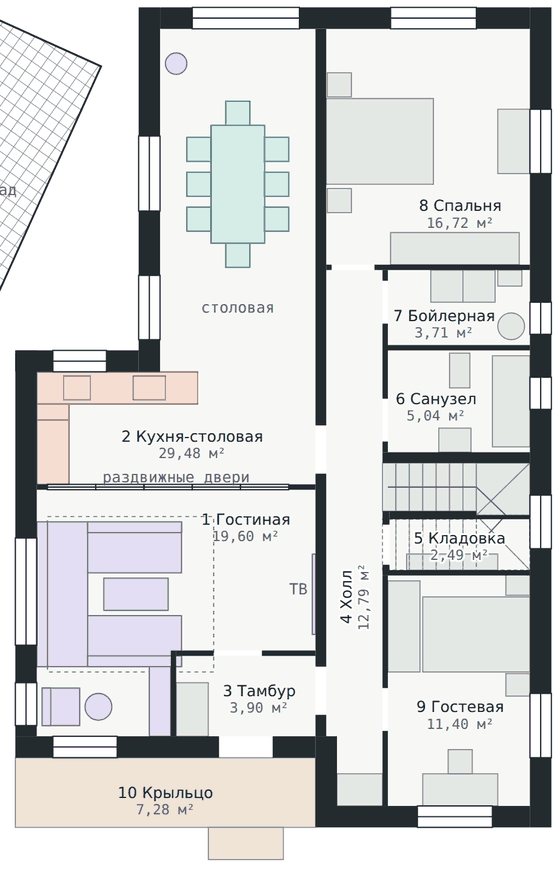
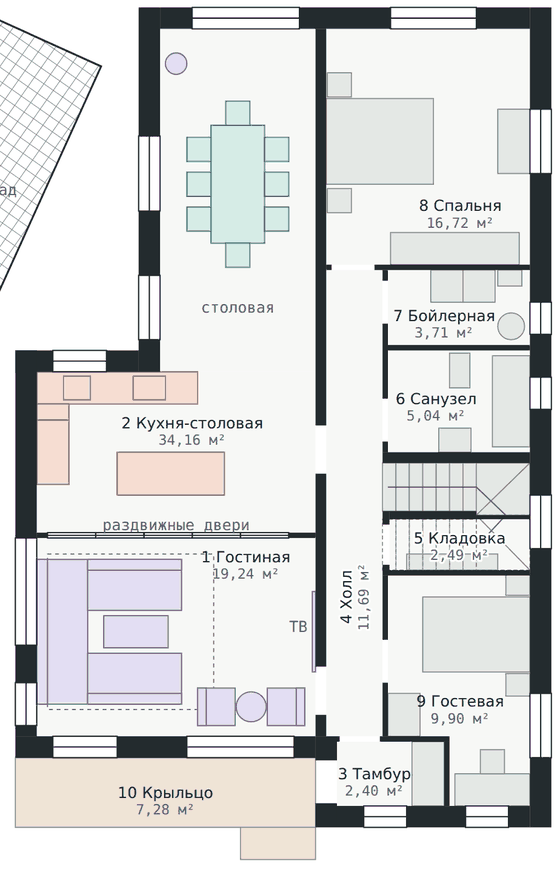
Variant 5: move the vestibule to the right half to enlarge the kitchen
Claude-Session: https://claude.ai/code/session_01Nq58rekvZSDXxWiDhZZmV7

diff --git a/dom/v5-dvuskatnaya.html b/dom/v5-dvuskatnaya.html
@@ -82,7 +82,7 @@ tr.out td{color:var(--muted)}
 <svg width="0" height="0" style="position:absolute" aria-hidden="true" focusable="false"><defs><pattern id="hatch" width="9" height="9" patternUnits="userSpaceOnUse" patternTransform="rotate(35)"><path d="M0 0 L0 9 M0 0 L9 0" stroke="var(--f-stroke)" stroke-width="1"/></pattern></defs></svg>
 <header>
 <h1>Дом · вариант 5, гостиная и кухня у входа, двускатная крыша</h1>
-<div class="specs"><span>общая <b>≈ 210,8 м²</b></span><span>1 этаж <b>105,1 м²</b></span><span>2 этаж <b>105,7 м²</b></span><span>сзади <b>7,7 × 6,4 м</b></span><span>спереди <b>10,0 × 8,9 м</b></span><span>склад <b>5,5 × 5,6 м</b></span><span>балкон <b>7,3 м²</b></span><span>длина <b>15,3 м</b></span><span>фундамент <b>плита 250 мм с рёбрами</b></span><span>крыша <b>двускатная, 30°</b>, конёк <b>≈ 8,2 м</b> от земли</span><span>2 этаж у наружных стен <b>1,5–2,3 м</b></span></div>
+<div class="specs"><span>общая <b>≈ 211,0 м²</b></span><span>1 этаж <b>105,4 м²</b></span><span>2 этаж <b>105,7 м²</b></span><span>сзади <b>7,7 × 6,4 м</b></span><span>спереди <b>10,0 × 8,9 м</b></span><span>склад <b>5,5 × 5,6 м</b></span><span>балкон <b>7,3 м²</b></span><span>длина <b>15,3 м</b></span><span>фундамент <b>плита 250 мм с рёбрами</b></span><span>крыша <b>двускатная, 30°</b>, конёк <b>≈ 8,2 м</b> от земли</span><span>2 этаж у наружных стен <b>1,5–2,3 м</b></span></div>
 </header>
 <div class="row">
 <div class="bar big" id="floors"><span class="lbl">Показать</span>
@@ -112,7 +112,7 @@ tr.out td{color:var(--muted)}
 <svg id="fplan" viewBox="0 -70 680 960" width="100%" role="img" style="min-width:540px"><title>План фундамента</title><desc>Монолитная плита 250 мм по контуру дома: сзади 7,7 м, спереди 10,0 м, длина 15,3 м. Рёбра под плитой показаны пунктиром, отдельные плиты крыльца и площадки у двери в сад, привязка к границе участков и переднему забору. Размеры в мм.</desc></svg>
 <svg id="fsec" viewBox="0 0 680 300" width="100%" role="img" style="min-width:540px;margin-top:6px"><title>Край плиты в разрезе</title><desc>Разрез по наружной стене: стена 400, плита 250, ребро 400 × 400, ЭППС 100, подушка 300, утеплённая отмостка, отметки от чистого пола.</desc></svg>
 </div>
-<svg id="plan1" viewBox="0 0 680 760" width="100%" role="img" style="min-width:540px" hidden><title>План первого этажа</title><desc>Первый этаж, вариант 5: спереди дом шириной 10 м, вход слева с крыльцом. Слева от фасада назад тамбур, гостиная с П-образным диваном, за стеклянными дверями кухня и в узкой задней части столовая с выходом в сад. Справа за несущей стеной холл, лестница у правой стены с кладовкой под ней, санузел, бойлерная, спальня сзади и гостевая спереди. Размеры в мм.</desc></svg>
+<svg id="plan1" viewBox="0 0 680 760" width="100%" role="img" style="min-width:540px" hidden><title>План первого этажа</title><desc>Первый этаж, вариант 5: спереди дом шириной 10 м. Крыльцо слева под балконом, входная дверь в правой стене крыльца ведёт в тамбур справа. Слева от фасада назад гостиная во всю ширину, за стеклянными дверями кухня с островом и в узкой задней части столовая с выходом в сад. Справа холл, лестница с кладовкой, санузел, бойлерная, спальня и гостевая. Размеры в мм.</desc></svg>
 <svg id="plan2" viewBox="0 0 680 760" width="100%" role="img" style="min-width:540px"><title>План второго этажа</title><desc>Второй этаж, вариант 5, полумансардный под двускатной крышей: мастер-спальня, гардеробная и санузел в задней части, Г-образная спальня, большой общий санузел, коридор с лестницей справа, кабинет с выходом на балкон слева спереди и спальня справа спереди. Пунктиром показаны окна в крыше. Размеры в мм.</desc></svg>
 </div>
 <div class="card">
@@ -130,16 +130,16 @@ tr.out td{color:var(--muted)}
 </div>
 <table id="t1" hidden>
 <caption>Экспликация · 1 этаж</caption>
-<tr><td>1</td><td>Гостиная</td><td>19,60</td></tr>
-<tr><td>2</td><td>Кухня-столовая</td><td>29,48</td></tr>
-<tr><td>3</td><td>Тамбур</td><td>3,90</td></tr>
-<tr><td>4</td><td>Холл и коридор с лестницей</td><td>12,79</td></tr>
+<tr><td>1</td><td>Гостиная</td><td>19,24</td></tr>
+<tr><td>2</td><td>Кухня-столовая</td><td>34,16</td></tr>
+<tr><td>3</td><td>Тамбур</td><td>2,40</td></tr>
+<tr><td>4</td><td>Холл и коридор с лестницей</td><td>11,69</td></tr>
 <tr><td>5</td><td>Кладовка под лестницей</td><td>2,49</td></tr>
 <tr><td>6</td><td>Санузел</td><td>5,04</td></tr>
 <tr><td>7</td><td>Бойлерная</td><td>3,71</td></tr>
 <tr><td>8</td><td>Спальня</td><td>16,72</td></tr>
-<tr><td>9</td><td>Гостевая или кабинет</td><td>11,40</td></tr>
-<tr class="sum"><td></td><td>Итого</td><td>105,13</td></tr>
+<tr><td>9</td><td>Гостевая</td><td>9,90</td></tr>
+<tr class="sum"><td></td><td>Итого</td><td>105,35</td></tr>
 <tr class="out"><td>10</td><td>Крыльцо</td><td>7,28</td></tr>
 </table>
 <table id="t2">
@@ -171,13 +171,13 @@ tr.out td{color:var(--muted)}
 <li><b>Замеры с эскиза.</b> Пунктир на эскизе я понял как границу между участками …299 и …300. Склад 5,5 × 5,6 м. Его задний угол со стороны дома стоит в 10,4 м от границы, от этого места вдоль границы до переднего забора 18,7 м. От заднего угла участка вдоль левого забора до склада 10,6 м. По модели от переднего угла склада до границы выходит 12,7 м и до переднего забора 13,6 м, у вас 12,8 и 13,5. Расхождение 10 см, это в пределах точности рулетки. Верхняя строчка на фото обрезана, поэтому размер «до забора у эл. столба» я не увидел.</li>
 <li><b>Участки.</b> Новый дом стоит на участке …299. Правая стена в 2 м от границы с …300, это обязательный отступ. Фасад в 4,5 м от переднего забора. Выступ смотрит в дальний конец участка, вход к воротам. На участке …300 уже стоит двухэтажный дом 11 × 10 м в 2 м от границы и в 6 м от переднего забора. Я нарисовал его по фото. Крыша двускатная несимметричная, конёк идёт от фасада к заднему забору и сдвинут вправо, длинный пологий скат смотрит на новый дом. Карниз примерно на 5 м, конёк на 7,6 м, это оценка по фото. Считаю, что фасад с гаражом смотрит на передний забор. Пристройки сзади не рисовал. Снег с длинного ската будет сходить в двухметровую полосу у границы, так что на этот скат стоит поставить снегозадержатели. Между домами получается 4 м. Это меньше обычного противопожарного разрыва между домами на соседних участках (от 6 м), стоит проверить, как это решается для ваших двух участков. По замерам левый забор проходит на 0,6–0,9 м дальше, чем по кадастровым цифрам, поэтому торец с воротами на плане вышел ≈8,8 м вместо 8. Его лучше перемерить. Забор высотой 2 м идёт по всему внешнему периметру обоих участков, между ними забора нет. Ворота 4,5 м без верхней балки и калитка стоят в нижнем левом торце, от калитки к крыльцу ведёт дорожка.</li>
 <li><b>Фундамент — монолитная плита 250 мм</b> ровно по контуру дома, 131,0 м². Снизу рёбра: по контуру 400 × 400 мм под наружными стенами и одно ребро 300 × 300 мм под несущей стеной вдоль дома, 13,2 м. Остальные стены первого этажа — перегородки, отдельные рёбра под ними не нужны. Верх плиты на −0,100, на стяжку и пол остаётся 100 мм. Низ плиты на уровне земли, низ рёбер на −0,750. Под плитой ЭППС 100 мм и песчано-щебёночная подушка 300 мм, торец плиты утеплён, вокруг утеплённая отмостка. Бетона под дом уходит ≈41,8 м³. Крыльцо слева спереди и площадка у двери в сад стоят на отдельных плитах 200 мм через шов. Сечения ориентировочные: армирование и точные размеры считает конструктор по геологии участка.</li>
-<li><b>Mercedes Atego с кузовом 7 м</b> (вся машина около 9,3 м) заезжает вдоль переднего забора и проезжает вперёд до границы второго участка. До забора 0,5 м, до фасада около 1,5 м, проход к крыльцу остаётся. Чтобы грузовик заезжал прямо вдоль забора, ворота 4,5 м сдвинуты в самый угол торца, калитка дальше по торцу. Это работает, если с улицы он подъезжает примерно вдоль переднего забора. Площадка засыпана асфальтной крошкой. Кузов высотой около 3,3 м будет стоять напротив окна гостевой на фасаде и затенять его.</li>
+<li><b>Mercedes Atego с кузовом 7 м</b> (вся машина около 9,3 м) заезжает вдоль переднего забора и проезжает вперёд до границы второго участка. До забора 0,5 м, до фасада около 1,5 м, проход к крыльцу остаётся. Чтобы грузовик заезжал прямо вдоль забора, ворота 4,5 м сдвинуты в самый угол торца, калитка дальше по торцу. Это работает, если с улицы он подъезжает примерно вдоль переднего забора. Площадка засыпана асфальтной крошкой. Кузов высотой около 3,3 м будет стоять напротив окон тамбура и гостевой на фасаде и затенять его.</li>
 <li><b>Склад 5,5 × 5,6 м</b> стоит стороной 5,6 м вплотную к левому забору, под углом ≈24° к дому. Склад обшит OSB. Дверь пластиковая прозрачная, у склада два окна 1 × 1 м: рядом с дверью слева и справа за углом. Через 1 м после склада вдоль забора в сторону ворот стоит вагончик-бытовка 8 × 2,4 м на блоках: обшит серым профлистом, по контуру синий профиль, крыша плоская чёрная. Дверь справа на длинной стороне к двору, окна только в торцах. Между углом склада и задней частью дома проход 0,7 м, от передней широкой части до склада тоже 0,7 м. Склад стоит на стальных сваях с зазором 40 см от земли. Корпус высотой 3 м со стороны дома и 2 м у забора, крыша со скатом к забору. Вход через обычную пластиковую дверь с крыльцом из трёх ступенек в торце со стороны входа в дом.</li>
-<li><b>Вариант 5.</b> Форма дома как в четвёртом: сзади 7,7 м по линии выступа, с 6,4 м от задней стены одна ступенька и дальше до фасада 10 м, до склада везде 0,7 м. Вход слева с крыльцом. С той же стороны, в широкой части, дневная зона: спереди гостиная, за ней кухня, в конце дома, в узкой части шириной 2,9 м, столовая с выходом в сад. Справа за несущей стеной холл с лестницей, санузел, бойлерная, спальня и гостевая. Крыша двускатная с коньком над несущей стеной, второй этаж полумансардный.</li>
-<li><b>Гостиная, кухня и столовая.</b> Из тамбура дверь ведёт прямо в гостиную, другая дверь — направо в холл. Гостиная 19,6 м²: П-образный диван основанием у левой стены, телевизор на несущей стене, у фасадного окна кресло и стеллаж. За стеклянными раздвижными дверями кухня: столешница вдоль задней стены широкой части, мойка под окном, варочная с вытяжкой, у левой стены колонны с холодильником и духовкой. Из кухни своя дверь в холл к лестнице. Дальше, в узкой задней части дома, столовая: стол 2,2 × 1,0 м вдоль дома на 8 человек и стеклянная дверь 2 м в сад на площадку. Кухня и столовая одним пространством, 29,5 м².</li>
-<li><b>Правая половина</b> как в третьем варианте: холл вдоль несущей стены, санузел 5,0 м², бойлерная, кладовка под лестницей, спальня 16,7 м² сзади и гостевая 11,4 м² спереди.</li>
+<li><b>Вариант 5.</b> Форма дома как в четвёртом: сзади 7,7 м по линии выступа, с 6,4 м от задней стены одна ступенька и дальше до фасада 10 м, до склада везде 0,7 м. Крыльцо слева под балконом, входная дверь в его правой стене, тамбур и холл справа. Слева, в широкой части, дневная зона: спереди гостиная, за ней кухня, в конце дома, в узкой части шириной 2,9 м, столовая с выходом в сад. Справа за несущей стеной тамбур, холл с лестницей, санузел, бойлерная, спальня и гостевая. Крыша двускатная с коньком над несущей стеной, второй этаж полумансардный.</li>
+<li><b>Гостиная, кухня и столовая.</b> Тамбур перенесён направо, поэтому вся ширина слева отдана дневной зоне. С крыльца входишь в тамбур 2,4 м² со шкафом, из него в холл, из холла дверь в гостиную. Гостиная 19,2 м² во всю ширину спереди: П-образный диван основанием у левой стены, телевизор на несущей стене, у большого окна на крыльцо два кресла. За стеклянными раздвижными дверями кухня стала глубже, 5,2 × 3,0 м. Столешница с мойкой и варочной вдоль задней стены, у левой стены колонны с холодильником и духовкой, посередине остров 2,0 × 0,8 м, из кухни своя дверь в холл. Дальше, в узкой задней части, столовая: стол 2,2 × 1,0 м вдоль дома на 8 человек и стеклянная дверь 2 м в сад. Кухня и столовая вместе 34,2 м².</li>
+<li><b>Правая половина:</b> спереди тамбур и гостевая 9,9 м² с кроватью, шкафом и столом у окна на фасад, дальше холл вдоль несущей стены, лестница с кладовкой под ней, санузел 5,0 м², бойлерная и спальня 16,7 м² сзади.</li>
 <li><b>Лестница у правой стены,</b> как в первом варианте. Нижний марш идёт из холла к правой стене, там четыре забежные ступени, верхний марш возвращается над кладовкой. 18 подъёмов по 170 мм, проступь 250 мм. Дверь в кладовку из холла, там, где под лестницей выше всего.</li>
-<li><b>Несущая стена вдоль дома</b> осталась на месте, 13,2 м от задней стены до тамбура. На первом этаже она отделяет тамбур, гостиную, кухню и столовую от холла, спальни и гостевой, в ней две двери: из тамбура и из кухни в холл. Конёк крыши идёт прямо над ней по всей длине дома, коньковый прогон опирается на неё. Перекрытие справа перекрывает 3,8 м, слева в широкой части 5,2 м, там нужны плиты перекрытия или усиленные балки. Стеклянная перегородка между гостиной и кухней ненесущая.</li>
+<li><b>Несущая стена вдоль дома</b> осталась на месте, 13,2 м от задней стены до тамбура. На первом этаже она отделяет гостиную, кухню и столовую от тамбура, холла, спальни и гостевой, в ней две двери: из холла в гостиную и из кухни в холл. Конёк крыши идёт прямо над ней по всей длине дома, коньковый прогон опирается на неё. Перекрытие справа перекрывает 3,8 м, слева в широкой части 5,2 м, там нужны плиты перекрытия или усиленные балки. Стеклянная перегородка между гостиной и кухней ненесущая.</li>
 <li><b>Крыша двускатная, уклон 30°.</b> Конёк идёт вдоль всего дома над несущей стеной на высоте ≈ 7,8 м от пола 1 этажа (≈ 8,2 м от земли), на 0,7 м ниже, чем в четвёртом варианте. Спереди и сзади фронтоны. Левый скат над широкой частью длиннее правого и опускается ниже на 0,8 м, поэтому фасад несимметричный. Над узкой задней частью тот же левый скат обрезан по стене, сзади слева получается ступенька в карнизе. Свесы по 500 мм.</li>
 <li><b>Второй этаж полумансардный.</b> Стены второго этажа доходят до скатов. Справа наружная стена 2,2 м, в комнате у стены 2,3 м. Слева в широкой части стена 1,4 м, у стены в комнате 1,5 м, а в 1,7 м от неё уже 2,5 м. Сзади слева, в узкой части, стена почти полная, 2,7 м. В низкой левой стене вертикальные окна не помещаются, поэтому в спальне, общем санузле и кабинете стоят окна в крыше. Справа и во фронтонах окна обычные, справа чуть ниже прежних.</li>
 <li><b>Снег.</b> Левый скат широкой части смотрит в сторону склада и вагончика, снег с него сходит туда, а край крыши подходит к переднему углу склада почти вплотную. Над узкой частью край крыши, как и раньше, над углом склада. На левом скате нужны снегозадержатели и водосток.</li>
@@ -197,13 +197,11 @@ walls1:[
  {o:'h',a0:700,a1:7600,c0:-400,c1:0,ops:[{f:1300,t:3300,s:0,h:2400,k:'g'},{f:5000,t:6600,s:800,h:2600,k:'w'}]},
  {o:'v',a0:-400,a1:14900,c0:7600,c1:8000,ops:[{f:1500,t:2700,s:800,h:2600,k:'w'},{f:5100,t:5700,s:1200,h:2000,k:'w'},{f:6500,t:7100,s:1400,h:2100,k:'w'},{f:8700,t:9700,s:1600,h:2800,k:'w'},{f:12400,t:13600,s:800,h:2600,k:'w'}]},
  {o:'v',a0:6000,a1:13200,c0:-2000,c1:-1600,ops:[{f:9500,t:11500,s:900,h:2600,k:'w'},{f:12200,t:13000,s:800,h:2600,k:'w'}]},
- {o:'h',a0:-2000,a1:3600,c0:13200,c1:13600,ops:[{f:-1300,t:-100,s:600,h:2400,k:'w'},{f:1800,t:2800,s:0,h:2200,k:'d'}]},
- {o:'v',a0:13200,a1:14900,c0:3600,c1:4000,ops:[]},
- {o:'h',a0:4000,a1:7600,c0:14500,c1:14900,ops:[{f:5500,t:6900,s:900,h:2300,k:'w'}]},
+ {o:'h',a0:-2000,a1:3600,c0:13200,c1:13600,ops:[{f:-1300,t:-100,s:600,h:2400,k:'w'},{f:1200,t:3200,s:600,h:2400,k:'w'}]},
+ {o:'v',a0:13200,a1:14900,c0:3600,c1:4000,ops:[{f:13650,t:14450,s:0,h:2200,k:'d'}]},
+ {o:'h',a0:4000,a1:7600,c0:14500,c1:14900,ops:[{f:4500,t:5300,s:900,h:2300,k:'w'},{f:6400,t:7200,s:900,h:2300,k:'w'}]},
  {o:'v',a0:0,a1:13200,c0:3600,c1:3800,ops:[{f:7400,t:8300,s:0,h:2100,k:'d'},{f:11900,t:12800,s:0,h:2100,k:'d'}]},
- {o:'h',a0:-1600,a1:3600,c0:8500,c1:8600,ops:[-1400,-500,400,1300,2200].map(f=>({f,t:f+900,s:0,h:2400,k:'g'}))},
- {o:'h',a0:1000,a1:3600,c0:11600,c1:11700,ops:[{f:1700,t:2600,s:0,h:2100,k:'d'}]},
- {o:'v',a0:11600,a1:13200,c0:900,c1:1000,ops:[]},
+ {o:'h',a0:-1600,a1:3600,c0:9400,c1:9500,ops:[-1400,-500,400,1300,2200].map(f=>({f,t:f+900,s:0,h:2400,k:'g'}))},
  {o:'h',a0:3800,a1:7600,c0:4400,c1:4500,ops:[{f:3900,t:4700,s:0,h:2100,k:'d'}]},
  {o:'v',a0:4500,a1:7900,c0:4850,c1:4950,ops:[{f:4700,t:5500,s:0,h:2100,k:'d'},{f:6900,t:7700,s:0,h:2100,k:'d'}]},
  {o:'h',a0:4950,a1:7600,c0:5900,c1:6000,ops:[]},
@@ -212,7 +210,9 @@ walls1:[
  {o:'h',a0:6600,a1:7600,c0:9075,c1:9150,ops:[],hh:1300},
  {o:'v',a0:9000,a1:10100,c0:4850,c1:4980,ops:[{f:9250,t:10000,s:0,h:2000,k:'d'}]},
  {o:'h',a0:4850,a1:7600,c0:10100,c1:10200,ops:[]},
- {o:'v',a0:10200,a1:14500,c0:4850,c1:4950,ops:[{f:12300,t:13100,s:0,h:2100,k:'d'}]}
+ {o:'v',a0:10200,a1:13200,c0:4850,c1:4950,ops:[{f:11400,t:12200,s:0,h:2100,k:'d'}]},
+ {o:'h',a0:4000,a1:6100,c0:13200,c1:13300,ops:[{f:4050,t:4800,s:0,h:2100,k:'d'}]},
+ {o:'v',a0:13300,a1:14500,c0:6000,c1:6100,ops:[]}
 ],
 walls2:[
  {o:'h',a0:700,a1:7600,c0:-400,c1:0,ops:[{f:1500,t:3300,s:800,h:2400,k:'w'},{f:4800,t:6800,s:700,h:2400,k:'w'}],gable:1},
@@ -232,8 +232,8 @@ walls2:[
  {o:'h',a0:-1600,a1:7600,c0:10100,c1:10250,ops:[{f:2850,t:3550,s:0,h:2100,k:'d'},{f:3900,t:4700,s:0,h:2100,k:'d'}]},
  {o:'v',a0:10250,a1:13200,c0:3600,c1:3800,ops:[]}
 ],
-floors1:[[700,0,2900,6400,'w'],[-1600,6400,5200,2100,'t'],[-1600,8600,5200,3000,'w'],[-1600,11600,2500,1600,'w'],[1000,11700,2600,1500,'t'],
- [3800,0,3800,4400,'w'],[3800,4500,1050,8700,'t'],[4000,13200,850,1300,'t'],[4950,4500,2650,1400,'t'],[4950,6000,2650,1900,'b'],[4850,8100,2750,900,'t'],[4980,9150,2620,950,'t'],[4950,10200,2650,4300,'w']],
+floors1:[[700,0,2900,6400,'w'],[-1600,6400,5200,3000,'t'],[-1600,9500,5200,3700,'w'],
+ [3800,0,3800,4400,'w'],[3800,4500,1050,8700,'t'],[4000,13300,2000,1200,'t'],[4950,4500,2650,1400,'t'],[4950,6000,2650,1900,'b'],[4850,8100,2750,900,'t'],[4980,9150,2620,950,'t'],[4950,10200,2650,3000,'w'],[6100,13200,1500,1300,'w']],
 floors2:[[4000,0,3600,4350,'w'],[700,0,3300,4350,'w'],[3800,4500,1900,3600,'w'],[5800,4500,1800,3600,'b'],[700,4500,2900,1900,'w'],[-1600,6400,5200,1700,'w'],[-1600,8250,4300,1850,'b'],
  [2800,8250,2050,1850,'w'],[-1600,10250,5200,2950,'w'],[3800,10250,3800,4250,'w']],
 ROOF:{ridge:3700,knee:2100}
@@ -261,7 +261,7 @@ ROOF:{ridge:3700,knee:2100}
  const dl=Math.hypot(5700,5500),e=[-5700/dl,-5500/dl],rx=F0[0]-P4[0],ry=F0[1]-P4[1];
  const kk=(-rx*v[1]+v[0]*ry)/(-e[0]*v[1]+v[0]*e[1]),P5=[P4[0]+e[0]*kk,P4[1]+e[1]*kk];
  const at=d=>[P4[0]+e[0]*d,P4[1]+e[1]*d];
- const wk=at(6300),st=[2300,15700],gate=[300,4800],G=at((gate[0]+gate[1])/2);
+ const wk=at(6300),st=[2900,15700],gate=[300,4800],G=at((gate[0]+gate[1])/2);
  let n=[-e[1],e[0]];if((0-G[0])*n[0]+(5000-G[1])*n[1]<0)n=[-n[0],-n[1]];
  const pdx=st[0]-wk[0],pdy=st[1]-wk[1],pl=Math.hypot(pdx,pdy),pn=[-pdy/pl*600,pdx/pl*600];
  /* существующий дом 11 × 10 на …300: 2 м от границы, 6 м от переднего забора */
@@ -278,7 +278,7 @@ ROOF:{ridge:3700,knee:2100}
   ribs:[[300,-400,7700,400,400],[7600,0,400,14900,400],[3600,14500,4000,400,400],[3600,13200,400,1300,400],
    [-2000,13200,5600,400,400],[-2000,6000,400,7200,400],[-1600,6000,1900,400,400],[300,0,400,6400,400],
    [3550,0,300,13200,300]],
-  porch:[[-2000,13620,5580,1280,200],[1600,14900,1400,600,100],[1100,-1600,2400,1180,200]]};
+  porch:[[-2000,13620,5580,1280,200],[2200,14900,1400,600,100],[1100,-1600,2400,1180,200]]};
 })();
 (function(){
 const HS=window.HOUSE,NS='http://www.w3.org/2000/svg';
@@ -328,27 +328,27 @@ const winders=(el,PT,g,up)=>{const C=[6600,9075];[[[6600,8100],[7600,8100]],[[76
 drawPlan(document.getElementById('plan1'),{
  walls:HS.walls1,floors:HS.floors1,
  polys:[{pts:HS.SKLAD.pts,a:{fill:'url(#hatch)',stroke:'var(--wall)','stroke-width':1.5}}],
- deck:[[-2000,13600,5600,1300],[1600,14900,1400,600]],
- dash:[[-1400,9100,3100,2900]],
+ deck:[[-2000,13600,5600,1300],[2200,14900,1400,600]],
+ dash:[[-1400,9800,3100,2900]],
  items:[
-  ['k',-1600,6400,3000,600],['k',-1600,7000,600,300],['k',-1600,7300,600,1200],['k',-1100,6480,500,440,1],['k',200,6480,600,440,1],
+  ['k',-1600,6400,3000,600],['k',-1600,7000,600,300],['k',-1600,7300,600,1200],['k',-100,7900,2000,800],['k',-1100,6480,500,440,1],['k',200,6480,600,440,1],
   ['d',1650,1800,1000,2200],['d',1200,2025,450,450],['d',1200,2675,450,450],['d',1200,3325,450,450],['d',2650,2025,450,450],['d',2650,2675,450,450],['d',2650,3325,450,450],['d',1925,1350,450,450],['d',1925,4000,450,450],
-  ['l',-1600,9200,950,2700],['l',-1600,9200,200,2700],['l',-650,9200,1750,950],['l',-650,9200,1750,200],['l',-650,10950,1750,950],['l',-650,11700,1750,200],
-  ['l',-350,10250,1200,600],['l',3540,9800,60,1500],['l',-1500,12300,700,700],['l',-1500,12300,160,700],['l',500,11900,400,1300],
-  ['f',1000,12200,600,1000],['f',4000,13900,850,600],
+  ['l',-1600,9900,950,2700],['l',-1600,9900,200,2700],['l',-650,9900,1750,950],['l',-650,9900,1750,200],['l',-650,11650,1750,950],['l',-650,12400,1750,200],
+  ['l',-350,10950,1200,600],['l',3540,10500,60,1500],['l',1400,12300,700,700],['l',1400,12300,160,700],['l',2700,12300,700,700],['l',3240,12300,160,700],
+  ['f',5400,13300,600,1200],
   ['f',3800,1300,2000,1600],['f',3820,820,450,450],['f',3820,2980,450,450],['f',5000,3800,2400,600],['f',7000,1500,600,1200],
   ['f',7000,4500,450,300],['f',5750,4500,600,600],['f',6350,4500,600,600],
   ['f',6900,6100,700,1700],['f',6100,6050,380,650],['f',5900,7450,600,450],
   ['f',5300,9800,1700,300],
-  ['f',5600,10600,2000,1400],['f',7150,10150,450,420],['f',7150,12030,450,420],['f',4950,10300,600,1700],['f',5600,13900,1400,600],['f',6075,13450,450,450]],
- circ:[['f',7250,5550,250],['l',1000,650,200],['l',-450,12650,250]],
+  ['f',5600,10600,2000,1400],['f',7150,10150,450,420],['f',7150,12030,450,420],['f',4950,12400,600,800],['f',6200,13900,1400,600],['f',6675,13450,450,450]],
+ circ:[['f',7250,5550,250],['l',1000,650,200],['l',2400,12650,280]],
  stair:(el,R,PT,g)=>{stairTreads(g,R,false);winders(el,PT,g,{fill:'none',stroke:'var(--f-stroke)','stroke-width':0.8,'stroke-dasharray':'3 2'});
   el('polyline',{points:PT([[4950,8550],[6600,8550],[7150,9075],[6700,9560]]),fill:'none',stroke:'var(--muted)','stroke-width':1});
   el('polygon',{points:PT([[6760,9480],[6620,9640],[6640,9440]]),fill:'var(--muted)'});},
- labels:[['1 Гостиная','19,60',2300,9250],['2 Кухня-столовая','29,48',1300,7700],['3 Тамбур','3,90',2550,12450],['4 Холл','12,79',4325,10600,'v',1],
-  ['5 Кладовка','2,49',6290,9600,'middle',1],['6 Санузел','5,04',5850,7000],['7 Бойлерная','3,71',6000,5450],['8 Спальня','16,72',6300,3400],['9 Гостевая','11,40',6300,12750],
+ labels:[['1 Гостиная','19,24',2300,9950],['2 Кухня-столовая','34,16',1300,7450],['3 Тамбур','2,40',4700,14000],['4 Холл','11,69',4325,10600,'v',1],
+  ['5 Кладовка','2,49',6290,9600,'middle',1],['6 Санузел','5,04',5850,7000],['7 Бойлерная','3,71',6000,5450],['8 Спальня','16,72',6300,3400],['9 Гостевая','9,90',6300,12650],
   ['10 Крыльцо','7,28',800,14350]],
- notes:[['склад',-2400,3100,'middle'],['раздвижные двери',1000,8460,'middle'],['ТВ',3450,10550,'end'],['столовая',2150,5300,'middle']]
+ notes:[['склад',-2400,3100,'middle'],['раздвижные двери',1000,9360,'middle'],['ТВ',3450,11250,'end'],['столовая',2150,5300,'middle']]
 });
 (function site(){
  /* план участков в ориентации эскиза: задний забор сверху, граница с …300 справа от дома */
@@ -368,7 +368,7 @@ drawPlan(document.getElementById('plan1'),{
  {const c=PL.truck.rect.reduce((a,p)=>[a[0]+p[0]/4,a[1]+p[1]/4],[0,0]);T(c[0],c[1]+150,'Атего, кузов 7 м','ra');}
  el('polygon',{points:P(PL.path),fill:'var(--deck)',stroke:'none'});
  el('polygon',{points:P(FD.contour),fill:'var(--f-fill)',stroke:'var(--wall)','stroke-width':1.5});
- [[-2000,13600,5600,1300],[1600,14900,1400,600],FD.porch[2]].forEach(r=>el('rect',{x:X2(r[0]),y:Y2(r[1]),width:r[2]*S2,height:r[3]*S2,fill:'var(--deck)',stroke:'var(--f-stroke)','stroke-width':0.8}));
+ [[-2000,13600,5600,1300],[2200,14900,1400,600],FD.porch[2]].forEach(r=>el('rect',{x:X2(r[0]),y:Y2(r[1]),width:r[2]*S2,height:r[3]*S2,fill:'var(--deck)',stroke:'var(--f-stroke)','stroke-width':0.8}));
  el('polygon',{points:P(K.pts),fill:'url(#hatch)',stroke:'var(--wall)','stroke-width':1.5});
  el('polygon',{points:P(K.cont.pts),fill:'var(--f-fill)',stroke:'var(--wall)','stroke-width':1.2});
  el('rect',{x:X2(O[0]),y:Y2(O[1]),width:(O[2]-O[0])*S2,height:(O[3]-O[1])*S2,fill:'var(--old)',stroke:'var(--muted)','stroke-width':1.5});
@@ -671,41 +671,40 @@ const toiletY=(x,y,backS)=>{B(x,y,380,650,0,400,white);B(x,backS?y+450:y,380,200
 G=f1;
 slab(FD.contour,FD.top,-FD.top,'#f3f0ea',f1);
 HS.floors1.forEach(f=>B(f[0],f[1],f[2],f[3],0,10,FLC[f[4]]));
-/* слева спереди тамбур со шкафом */
-B(1000,12200,600,1000,0,2200,light);
-/* гостиная в широкой части: П-образный диван основанием к левой стене, ТВ на несущей стене, кресло у фасадного окна */
+/* гостиная во всю ширину спереди: П-образный диван основанием к левой стене, ТВ на несущей стене, два кресла у большого окна на крыльцо */
 const sofa='#6f7f8f',cush='#7a8a9a',cushB='#8393a3';
-B(-1400,9100,3100,2900,10,8,'#d8cfc2');
-B(-1600,9200,950,2700,0,420,sofa);B(-1600,9200,200,2700,0,850,sofa);
-B(-650,9200,1750,950,0,420,sofa);B(-650,9200,1750,200,0,850,sofa);B(920,9200,180,950,0,620,sofa);
-B(-650,10950,1750,950,0,420,sofa);B(-650,11700,1750,200,0,850,sofa);B(920,10950,180,950,0,620,sofa);
-B(-1400,9400,730,2300,420,90,cush);B(-650,9400,1570,730,420,90,cush);B(-650,10970,1570,730,420,90,cush);
-B(-1400,9400,180,2300,510,360,cushB);B(-650,9400,1570,180,510,360,cushB);B(-650,11520,1570,180,510,360,cushB);
-B(-350,10250,1200,600,0,400,'#a07d5a');
-B(3560,9800,40,1500,1000,800,'#111',null,{roughness:0.25});
-armchair(-1500,12300,'W');Cyl(-450,12650,250,450,30,'#9c7650');Cyl(-450,12650,35,0,450,'#333');B(500,11900,400,1300,0,2000,light);
-/* за стеклянными дверями кухня: столешница у задней стены с мойкой под окном и варочной, колонны у левой стены */
+B(-1400,9800,3100,2900,10,8,'#d8cfc2');
+B(-1600,9900,950,2700,0,420,sofa);B(-1600,9900,200,2700,0,850,sofa);
+B(-650,9900,1750,950,0,420,sofa);B(-650,9900,1750,200,0,850,sofa);B(920,9900,180,950,0,620,sofa);
+B(-650,11650,1750,950,0,420,sofa);B(-650,12400,1750,200,0,850,sofa);B(920,11650,180,950,0,620,sofa);
+B(-1400,10100,730,2300,420,90,cush);B(-650,10100,1570,730,420,90,cush);B(-650,11670,1570,730,420,90,cush);
+B(-1400,10100,180,2300,510,360,cushB);B(-650,10100,1570,180,510,360,cushB);B(-650,12220,1570,180,510,360,cushB);
+B(-350,10950,1200,600,0,400,'#a07d5a');
+B(3560,10500,40,1500,1000,800,'#111',null,{roughness:0.25});
+armchair(1400,12300,'W');armchair(2700,12300,'E');Cyl(2400,12650,280,450,30,'#9c7650');Cyl(2400,12650,35,0,450,'#333');
+/* за стеклянными дверями кухня: столешница у задней стены с мойкой под окном и варочной, колонны у левой стены, остров */
 counter(-1600,6400,3000,600,front);counter(-1600,7000,600,300,front);B(-1600,7300,600,1200,0,2300,front);
 B(-1000,7360,12,540,900,600,'#222',null,{roughness:0.2});B(-1000,7920,12,540,100,2100,'#e0dcd4');
 B(-1100,6480,500,440,900,4,'#9aa3ab',null,{metalness:0.6,roughness:0.3});B(200,6450,600,500,900,6,'#151515',null,{roughness:0.2});
 B(150,6400,700,500,1800,200,'#c9ccce',null,{metalness:0.5,roughness:0.35});B(350,6400,300,250,2000,800,'#c9ccce',null,{metalness:0.5,roughness:0.35});
 B(-1600,6400,500,350,1500,800,front);
-lamp(1000,7600,2000,HS.H1);
+B(-100,7900,2000,800,0,860,dark);B(-150,7850,2100,900,860,40,top);
+lamp(400,8300,2000,HS.H1);lamp(1400,8300,2000,HS.H1);
 /* в узкой задней части столовая: стол 2,2 × 1,0 вдоль дома на 8 мест, выход в сад */
 table(1650,1800,1000,2200,0);[2250,2900,3550].forEach(c=>{chair(1425,c,'W');chair(2875,c,'E');});chair(2150,1575,'N');chair(2150,4225,'S');
 B(2130,1900,40,2000,1950,30,'#222');B(2140,1900,20,2000,1935,15,'#ffe7b0',null,{emissive:'#ffd98a',emissiveIntensity:0.9});
 B(2145,2100,10,10,1980,HS.H1-1980,'#333');B(2145,3700,10,10,1980,HS.H1-1980,'#333');
 Cyl(1000,650,170,0,450,'#8a7c6a');{const lf=new THREE.Mesh(new THREE.SphereGeometry(0.34,20,14),mat('#5f8a50'));lf.position.set(1.0,0.8,0.65);lf.castShadow=true;f1.add(lf);}
 /* справа: холл со шкафом, бойлерная, санузел, кладовка под лестницей, спальня сзади, гостевая спереди */
-B(4000,13900,850,600,0,2200,light);
+B(5400,13300,600,1200,0,2200,light);
 B(7000,4500,450,300,1200,750,white);Cyl(7250,5550,250,0,1500,'#e8e8e8');B(5750,4500,600,600,0,850,'#f2f2f2');B(6350,4500,600,600,0,850,'#f2f2f2');
 B(6900,6100,700,1700,0,550,'#f7f7f5');B(6960,6180,580,1540,550,5,'#bfd6de');toiletY(6100,6050,false);
 B(5900,7450,600,450,0,800,light);B(6000,7500,400,350,800,80,white);B(5950,7885,500,15,1100,700,mirror,null,{roughness:0.1,metalness:0.4});
 B(5300,9800,1700,300,0,1300,light);
 bed(3800,1300,2000,1600,'W');B(3820,820,450,450,0,500,dark);B(3820,2980,450,450,0,500,dark);B(5000,3800,2400,600,0,2200,light);B(4300,1000,2400,2200,10,8,'#d8cfc2');
 table(7000,1500,600,1200,0);chair(6775,2100,'W');
-bed(5600,10600,2000,1400,'E');B(7150,10150,450,420,0,500,dark);B(7150,12030,450,420,0,500,dark);B(4950,10300,600,1700,0,2200,light);
-table(5600,13900,1400,600,0);chair(6300,13675,'N');
+bed(5600,10600,2000,1400,'E');B(7150,10150,450,420,0,500,dark);B(7150,12030,450,420,0,500,dark);B(4950,12400,600,800,0,2200,light);
+table(6200,13900,1400,600,0);chair(6900,13675,'N');
 const stairC='#b8916a',RISE=170,SL=300;
 for(let i=0;i<7;i++)B(4850+i*250,8100,250,900,0,(i+1)*RISE,stairC);
 function wedge(pts,z0,h){const sh=new THREE.Shape();pts.forEach((p,i)=>{const px=mm(p[0]),pz=-mm(p[1]);i?sh.lineTo(px,pz):sh.moveTo(px,pz);});
@@ -921,9 +920,9 @@ const E=3.06+1.6;
 const PLg=HS.PLOT,Gt=PLg.G,Nt=PLg.n;
 const V={truck:[[-12,8,29],[3,1.5,17],'orbit',true],all:[[-3,20,-1],[3.8,0,7.2],'orbit'],top:[[3.8,27,7.6],[3.8,0,7.2],'orbit'],front:[[9,8,27],[3.5,3,8],'orbit',true],nw:[[-11,8,-9],[4,3,5],'orbit',true],site:[[-1,44,24],[7.5,0,4.5],'orbit',true],old:[[8.5,4.5,24],[16.5,3,9.5],'orbit',true],
  fall:[[-6,9,-5],[3.8,-0.5,7.2],'orbit'],ftop:[[3.8,21,7.65],[3.8,-0.5,7.25],'orbit'],ffront:[[11,5,25],[3.8,-0.5,7.5],'orbit'],fnw:[[-10,5,-7],[3.8,-0.5,6],'orbit'],fbelow:[[-5,-8,21],[3.8,-0.5,7.2],'orbit'],
- dining:[[3.1,1.6,6.6],[1.9,0.8,1.0],'look'],living:[[3.2,1.6,8.9],[-0.8,0.6,11.4],'look'],kitchen:[[2.8,1.6,8.3],[-1.0,0.9,6.6],'look'],
+ dining:[[3.1,1.6,6.6],[1.9,0.8,1.0],'look'],living:[[3.2,1.6,9.8],[-0.8,0.6,12.2],'look'],kitchen:[[3.0,1.6,9.2],[-1.0,0.9,6.8],'look'],
  corridor:[[4.3,1.6,12.6],[4.3,1.3,5.5],'look'],stair:[[4.0,1.6,8.55],[7.6,1.9,8.9],'look'],stairtop:[[4.4,4.6,11.2],[6.2,0.9,9.1],'orbit'],
- bedroom:[[7.3,1.6,3.5],[4.3,0.7,1.8],'look'],guest:[[5.3,1.6,13.4],[7.4,0.7,10.9],'look'],
+ bedroom:[[7.3,1.6,3.5],[4.3,0.7,1.8],'look'],guest:[[6.8,1.6,14.0],[6.0,0.7,10.9],'look'],
  all2:[[-3,23,-1],[3.8,3.06,7.2],'orbit',false],top2:[[3.8,30,7.6],[3.8,3.06,7.2],'orbit',false],
  master:[[4.5,E,0.6],[7.2,3.8,2.6],'look'],closet:[[4.5,E,7.8],[4.6,3.9,5.2],'look'],lounge:[[4.6,E,3.9],[1.2,3.7,0.8],'look'],nwbed:[[-1.2,E,7.2],[3.2,3.8,5.6],'look'],swbed:[[4.2,E,10.6],[7.0,3.6,12.6],'look'],
  corridor2:[[3.1,E,9.9],[7.4,3.2,8.9],'look'],cabinet:[[3.3,E,10.6],[-1.4,3.6,12.4],'look'],balcony:[[3.3,E,14.7],[-1.8,3.7,13.9],'look']};

diff --git a/index.html b/index.html
@@ -82,8 +82,8 @@ h2{font-size:18px;font-weight:600;margin:0}
 <div class="body">
 <span class="tag">ВАРИАНТ 5</span>
 <h2>10 м спереди, двускатная крыша</h2>
-<p>Вход слева с крыльцом, с той же стороны гостиная, кухня и в узкой задней части столовая с выходом в сад. Конёк над несущей стеной, второй этаж полумансардный.</p>
-<span class="nums">1 этаж <b>105,1</b> · 2 этаж <b>105,7</b> · всего <b>≈210,8 м²</b></span>
+<p>Крыльцо слева, тамбур справа. Слева гостиная во всю ширину, большая кухня с островом и в узкой задней части столовая с выходом в сад. Конёк над несущей стеной, второй этаж полумансардный.</p>
+<span class="nums">1 этаж <b>105,4</b> · 2 этаж <b>105,7</b> · всего <b>≈211,0 м²</b></span>
 <a class="btn" href="dom/v5-dvuskatnaya.html">Открыть</a>
 </div>
 </article>

diff --git a/dom/README.md b/dom/README.md
@@ -8,7 +8,7 @@
 | `v2-vhod-sleva.html` | Вход, тамбур и гардероб слева спереди, лестница у левой стены. Справа вдоль всего дома спереди кухня-столовая, сзади гостиная, между ними стеклянные раздвижные двери. Артефакт: https://claude.ai/artifact/3iNbKe61ds9eAX2H2THzCe |
 | `v3-kuhnya-gostinaya-u-vhoda.html` | Вход, тамбур, кухня-столовая и гостиная слева; справа холл с лестницей (ступени 250 мм), санузел, бойлерная, кладовка, спальня сзади и гостевая спереди. Артефакт: https://claude.ai/artifact/2fQcV7woFJbdg7w1L99MuV |
 | `v4-shirina-10m.html` | Как вариант 3, но с 6,4 м от задней стены дом одной ступенькой расширяется к складу до 10 м (до склада везде 0,7 м). Кухня-столовая 31 м², крыша буквой Т. Артефакт: https://claude.ai/artifact/JNdo8EkxG9LTb8UJyd4uq7 |
-| `v5-dvuskatnaya.html` | Форма как в варианте 4. Вход слева с крыльцом, с той же стороны гостиная, кухня и в узкой задней части столовая; справа холл с лестницей, санузел, бойлерная, спальня, гостевая. Двускатная крыша с коньком над несущей стеной, второй этаж полумансардный, окна в левом скате. Артефакт: https://claude.ai/artifact/1E7rer6eFDHS2GWG5vcdFW |
+| `v5-dvuskatnaya.html` | Форма как в варианте 4. Крыльцо слева, дверь в его правой стене, тамбур справа; слева гостиная во всю ширину, кухня с островом и в узкой задней части столовая; справа холл с лестницей, санузел, бойлерная, спальня, гостевая. Двускатная крыша с коньком над несущей стеной, второй этаж полумансардный, окна в левом скате. Артефакт: https://claude.ai/artifact/1E7rer6eFDHS2GWG5vcdFW |
 
 ## Сайт
 
